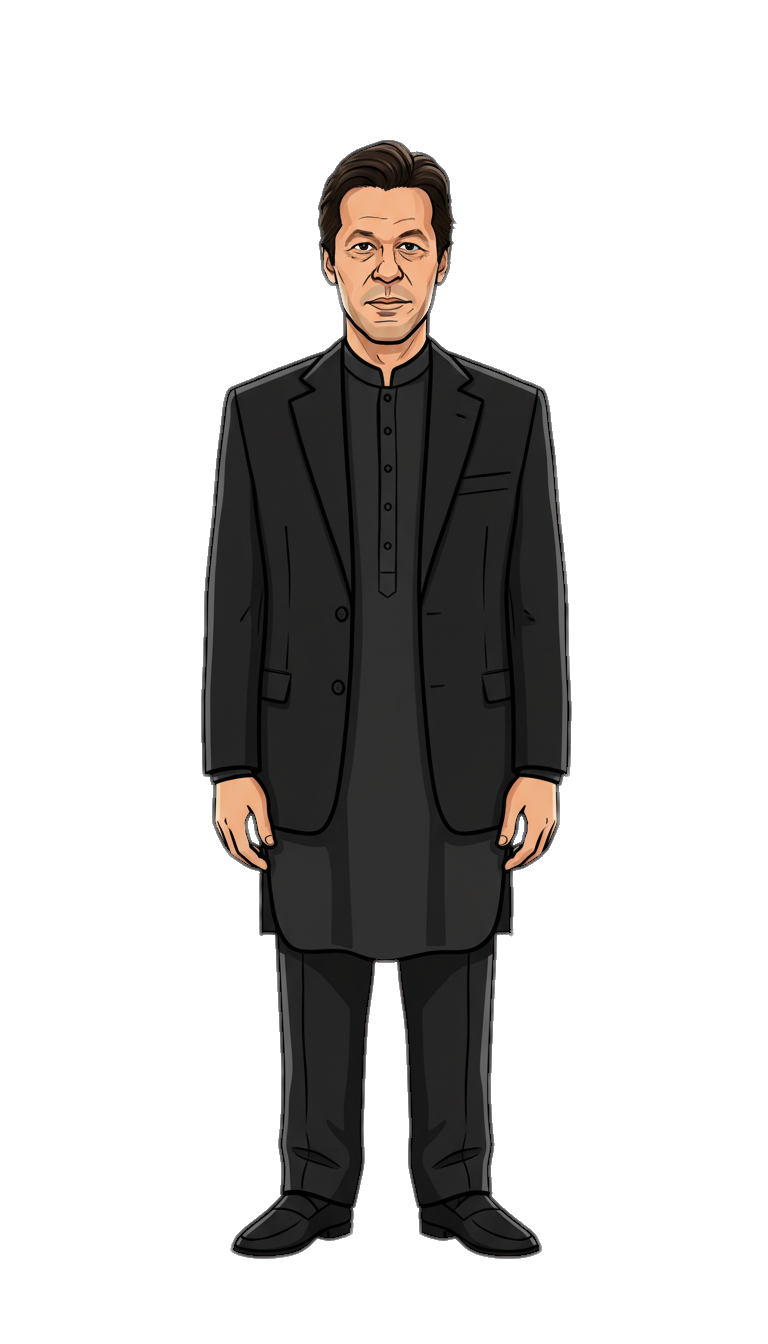
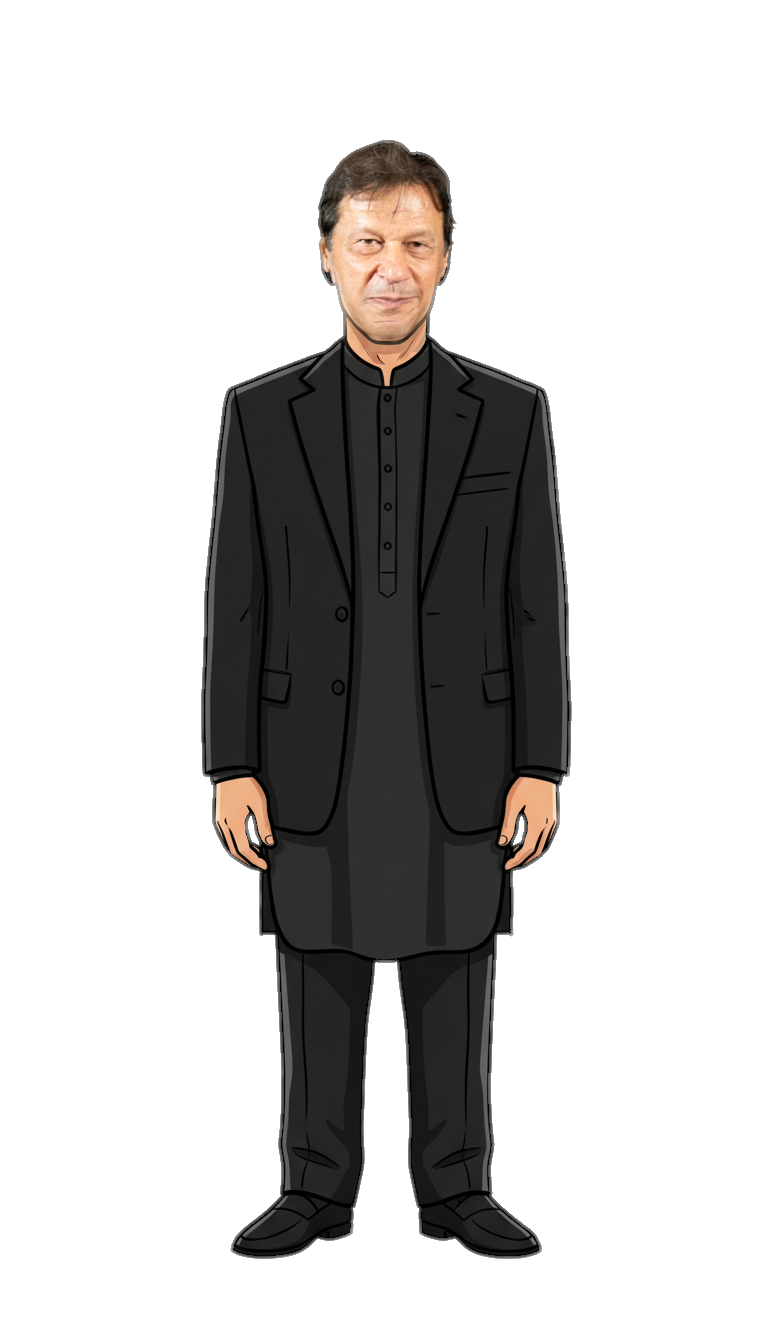
Fix collision detection, game-over sequence, and update character faces with realistic photos
- Fix collision detection: replaced incorrect gap-based system with accurate
  pixel-bound detection based on actual hurdle image rendering position.
  Ground hurdle collision zone now correctly maps to bottom of screen where
  character stands; sky hurdle maps to top of screen where character hangs.
  Player can now pass freely through open space without false game-over triggers.

- Fix game-over sequence: replaced hardcoded 4500ms timeout with sound.onended
  event listener. Now pic4 (Shahbaz sad face) shows with 'me khatakar insan hn'
  sound, and EXACTLY when that sound ends, pic3 (Imran Khan celebrating) appears
  with 'hye Allah' sound at full volume. Try Again button appears after sequence.

- Update character faces: composited realistic faces onto cartoon sprites.
  - shahbaz_flying.png: Shahbaz Sharif's real face from pic2.jpg
  - imran_khan_tall.png: Imran Khan's real face from pic1.jpg
  - imran_khan_tall_sky.png: Imran Khan's real face from pic1.jpg

Changed region(s): [[0.4062, 0.0938, 0.5938, 0.2812]]

diff --git a/index.html b/index.html
@@ -206,7 +206,7 @@
         <h1 id="game-over-title">GAME OVER</h1>
         <img id="game-over-pic" class="game-over-img" src="" alt="Game Over">
         <p id="final-score" style="margin-top: 20px; font-size: 28px;">Stolen Dollars: $0</p>
-        <button onclick="restartGame()" style="margin-top: 30px;">Try Again</button>
+        <button id="restart-btn" onclick="restartGame()" style="margin-top: 30px; display: none;">Try Again</button>
     </div>
 </div>
 
@@ -220,6 +220,7 @@
     const gameOverScreen = document.getElementById('game-over-screen');
     const gameOverPic = document.getElementById('game-over-pic');
     const finalScoreTxt = document.getElementById('final-score');
+    const restartBtn = document.getElementById('restart-btn');
 
     // Audio assets
     const sounds = {
@@ -244,6 +245,58 @@
     let flapPower = -8;
     let gameSpeed = 5;
     let speedIncrement = 0.0005;
+
+    // Hurdle image aspect ratio: 768 x 1344
+    // In a 140px wide div with background-size: contain
+    // Rendered height = 140 * (1344 / 768) = 245px
+    const HURDLE_RENDERED_HEIGHT = 140 * (1344 / 768); // ~245px
+
+    // Content bounds within the image (as fractions of image height):
+    // imran_khan_tall.png: content from row 140/1344 to 1258/1344
+    // imran_khan_tall_sky.png: content from row 40/1344 to 1312/1344
+    // We use slightly generous bounds for fair collision detection
+    const HURDLE_BODY_TOP_FRAC = 0.08;    // 8% from top of rendered image
+    const HURDLE_BODY_BOTTOM_FRAC = 0.96; // 96% from top of rendered image
+
+    function getHurdleCollisionBounds(h) {
+        // Returns the actual pixel bounds of the hurdle character on screen
+        const screenHeight = window.innerHeight;
+        const renderedH = HURDLE_RENDERED_HEIGHT;
+
+        let imgTop, imgBottom;
+
+        if (h.isTopHurdle) {
+            // background-position: center top
+            // Image top aligns with div top (y=0)
+            imgTop = 0;
+            imgBottom = renderedH;
+        } else {
+            // background-position: center bottom
+            // Image bottom aligns with div bottom (y=screenHeight)
+            imgTop = screenHeight - renderedH;
+            imgBottom = screenHeight;
+        }
+
+        // Apply body fraction offsets (trim transparent padding)
+        const bodyTop = imgTop + renderedH * HURDLE_BODY_TOP_FRAC;
+        const bodyBottom = imgTop + renderedH * HURDLE_BODY_BOTTOM_FRAC;
+
+        // Horizontal bounds: image is centered in 140px wide div
+        // background-size: contain with 140px width -> image renders at 140px wide
+        // Image is centered horizontally in the div
+        const hurdleLeft = h.x;
+        const hurdleRight = h.x + 140;
+
+        // Add a small horizontal padding to make collision fair
+        const hPad = 12;
+
+        return {
+            left: hurdleLeft + hPad,
+            right: hurdleRight - hPad,
+            top: bodyTop,
+            bottom: bodyBottom
+        };
+    }
 
     function startGame() {
         introScreen.style.display = 'none';
@@ -315,24 +368,16 @@
         }
 
         gameContainer.appendChild(hurdle);
-        
-        // Gap configuration
-        const gapSize = 220;
-        const minGapY = 80;
-        const maxGapY = window.innerHeight - gapSize - 80;
-        const gapY = minGapY + Math.random() * (maxGapY - minGapY);
 
         hurdles.push({
             el: hurdle,
             x: window.innerWidth,
-            gapY: gapY,
-            gapSize: gapSize,
             passed: false,
             isTopHurdle: isTopHurdle
         });
 
-        // Spawn hurdles more frequently
-        const nextSpawn = 2000 + Math.random() * 1200;
+        // Spawn next hurdle
+        const nextSpawn = 1800 + Math.random() * 800;
         setTimeout(spawnHurdle, nextSpawn);
     }
 
@@ -358,35 +403,37 @@
         // Increase speed over time
         gameSpeed += speedIncrement;
 
-        // Move hurdles
+        // Move hurdles and check collision
         for (let i = hurdles.length - 1; i >= 0; i--) {
             const h = hurdles[i];
             h.x -= gameSpeed;
             h.el.style.left = h.x + 'px';
 
-            // Check if passed
-            if (!h.passed && h.x < 80) {
+            // Check if passed (player has cleared the hurdle)
+            if (!h.passed && h.x + 140 < 80) {
                 h.passed = true;
                 score += 10;
                 updateScore();
                 sounds.pass.play();
             }
 
-            // Precise collision detection with padding
-            const playerLeft = 80 + 15;
-            const playerRight = 80 + 100 - 15;
-            const playerTop = playerY + 15;
-            const playerBottom = playerY + 100 - 15;
+            // -------------------------------------------------------
+            // FIXED COLLISION DETECTION
+            // Use actual visual bounds of the hurdle character image
+            // -------------------------------------------------------
+            const bounds = getHurdleCollisionBounds(h);
 
-            const hurdleLeft = h.x + 10;
-            const hurdleRight = h.x + 140 - 10;
-            const gapTop = h.gapY;
-            const gapBottom = h.gapY + h.gapSize;
+            // Player bounding box (with small padding for fairness)
+            const pPad = 12;
+            const playerLeft = 80 + pPad;
+            const playerRight = 80 + 100 - pPad;
+            const playerTop = playerY + pPad;
+            const playerBottom = playerY + 100 - pPad;
 
-            // Check if player is in the hurdle's horizontal range
-            if (playerRight > hurdleLeft && playerLeft < hurdleRight) {
-                // Check if player is NOT in the gap
-                if (playerTop < gapTop || playerBottom > gapBottom) {
+            // Check horizontal overlap first
+            if (playerRight > bounds.left && playerLeft < bounds.right) {
+                // Check vertical overlap with the actual character body
+                if (playerBottom > bounds.top && playerTop < bounds.bottom) {
                     endGame();
                     return;
                 }
@@ -408,26 +455,57 @@
         gameActive = false;
         cancelAnimationFrame(animationId);
         sounds.bgm.pause();
+        sounds.bgm.currentTime = 0;
         sounds.fail.play();
         
         setTimeout(() => {
             gameOverScreen.style.display = 'flex';
+            restartBtn.style.display = 'none';
             finalScoreTxt.innerText = `Stolen Dollars: $${score}`;
             
-            // Show pic4 first
+            // Step 1: Show pic4 and play "me khatakar insan hn" sound
             gameOverPic.src = 'pic4.jpg';
+
+            // Stop any previously playing khatakar/hye_allah sounds
+            sounds.khatakar.pause();
+            sounds.khatakar.currentTime = 0;
+            sounds.hye_allah.pause();
+            sounds.hye_allah.currentTime = 0;
+
             sounds.khatakar.play();
             
-            // After khatakar sound finishes, show pic3 and play hye Allah sound
-            setTimeout(() => {
+            // Step 2: When khatakar sound finishes, switch to pic3 and play "hye Allah" at higher volume
+            sounds.khatakar.onended = function() {
                 gameOverPic.src = 'pic3.jpeg';
-                sounds.hye_allah = new Audio('hye Allah.mp3');
+                
+                sounds.hye_allah.volume = 1.0; // Full volume (higher level)
                 sounds.hye_allah.play();
-            }, 4500);
+
+                // Show the restart button after hye_allah finishes
+                sounds.hye_allah.onended = function() {
+                    restartBtn.style.display = 'inline-block';
+                };
+            };
+
+            // Fallback: if sound doesn't fire onended (e.g., blocked), show restart after delay
+            setTimeout(() => {
+                if (restartBtn.style.display === 'none') {
+                    restartBtn.style.display = 'inline-block';
+                }
+            }, 8000);
+
         }, 800);
     }
 
     function restartGame() {
+        // Stop and reset all sounds
+        sounds.khatakar.pause();
+        sounds.khatakar.currentTime = 0;
+        sounds.hye_allah.pause();
+        sounds.hye_allah.currentTime = 0;
+        sounds.fail.pause();
+        sounds.fail.currentTime = 0;
+
         // Clear existing hurdles
         hurdles.forEach(h => {
             if (gameContainer.contains(h.el)) {
@@ -444,7 +522,7 @@
         startGame();
     }
 
-    // Controls - Continuous flapping
+    // Controls
     window.addEventListener('keydown', (e) => {
         if (e.code === 'Space') {
             e.preventDefault();
